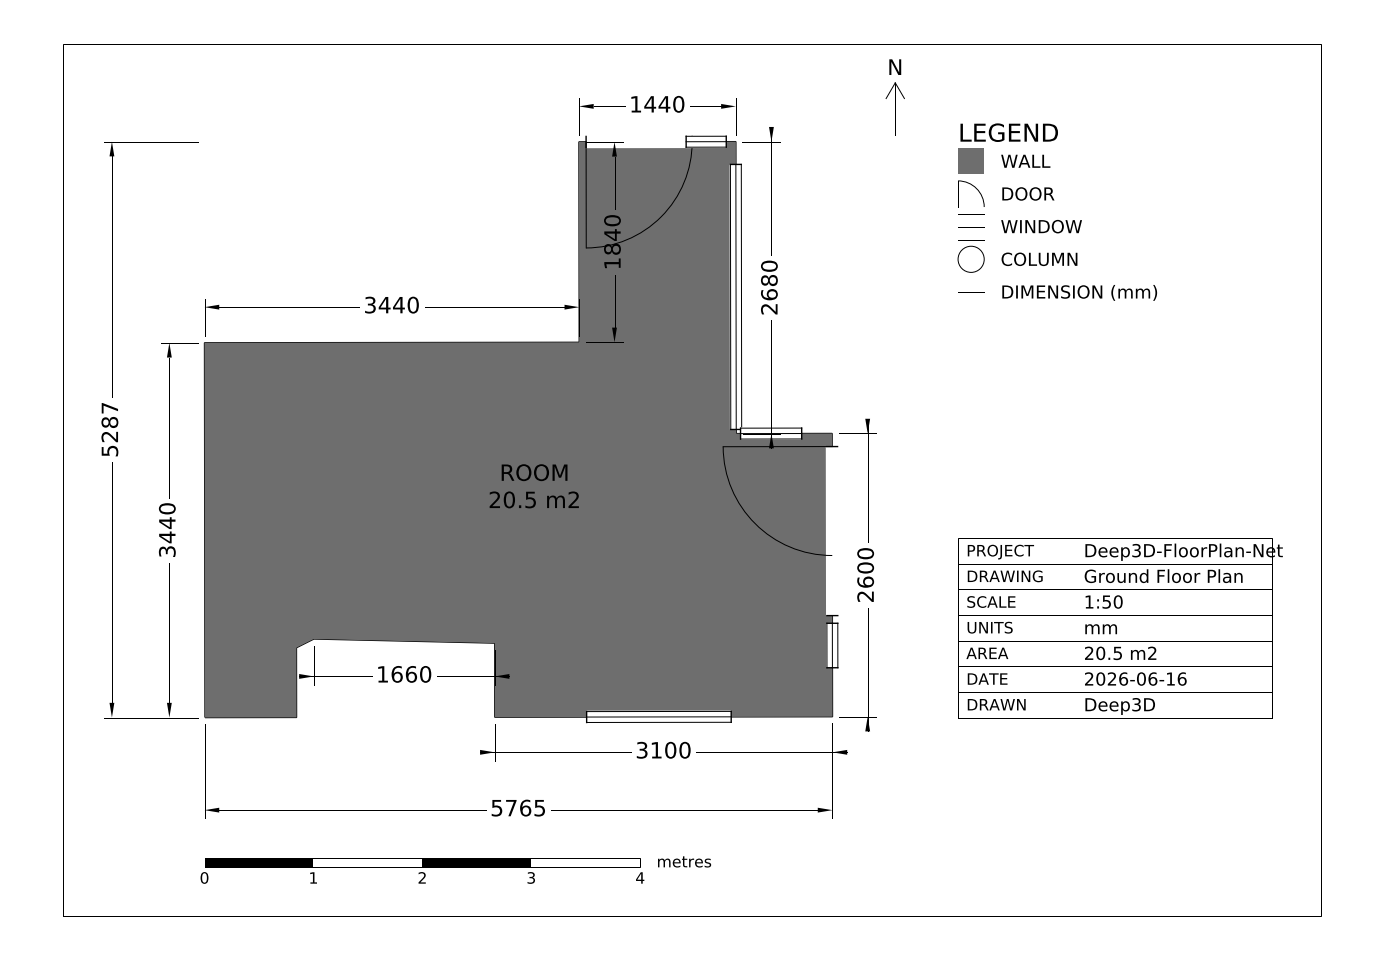
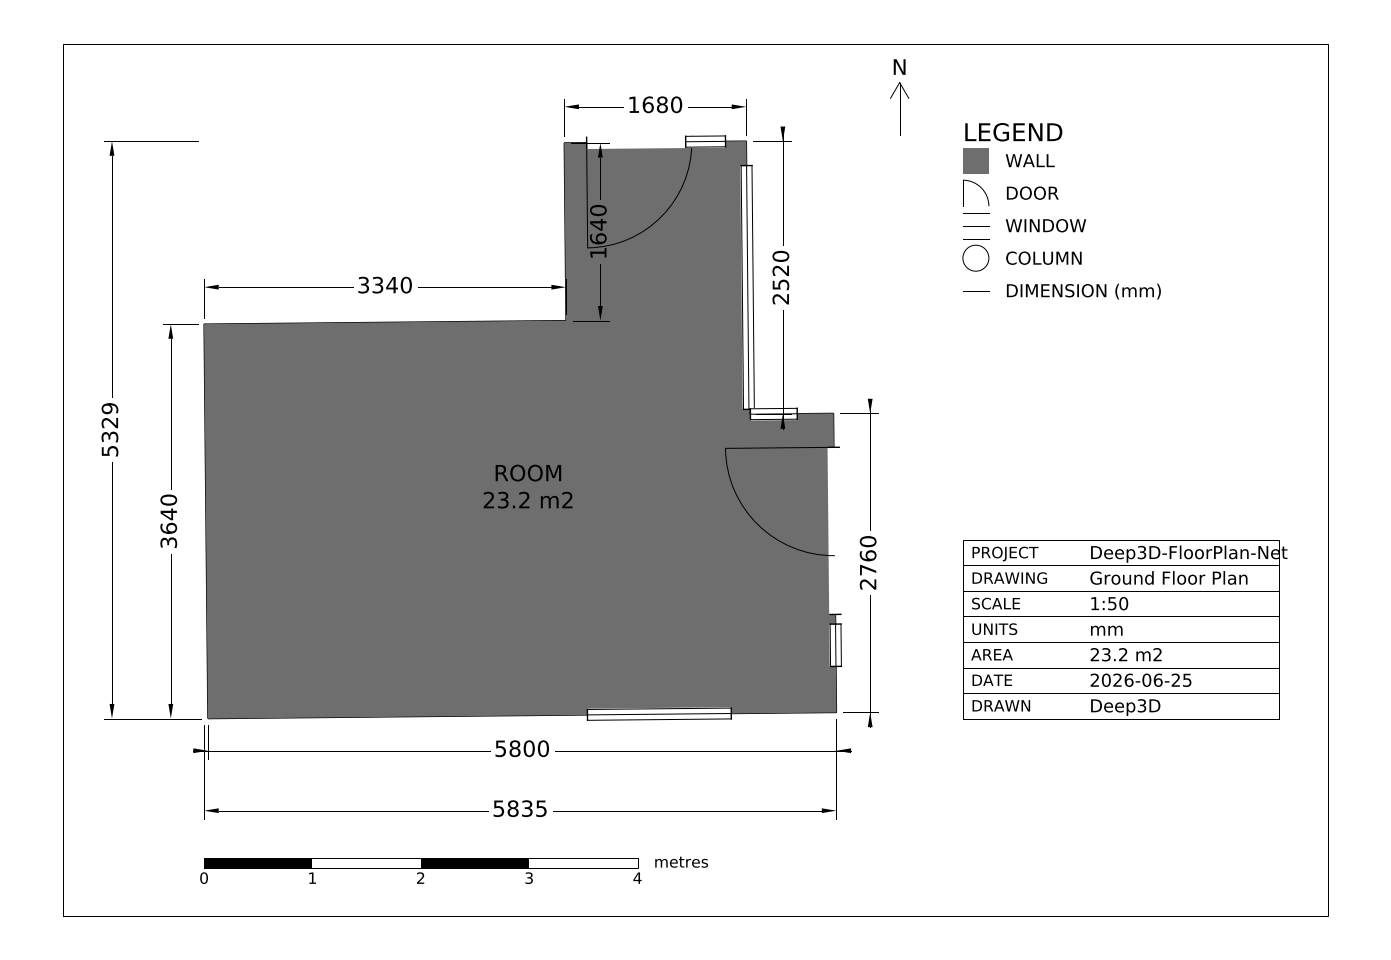
improvised floorplan sota to address holes after furniture removal

diff --git a/scripts/floorplan_sota.py b/scripts/floorplan_sota.py
@@ -85,14 +85,25 @@ def rectilinearize(v):
             out.append(list(v[i]))
     return np.array(out)
 
-def room_from_floor_mask(floor_pts, ang, r):
+def room_from_floor_mask(floor_pts, wall_pts, ang, r):
     if len(floor_pts) == 0:
         return None
     aligned = rot(floor_pts, -ang)
     mn = aligned.min(0)
     g = np.floor((aligned - mn) / r["mask_res"]).astype(int)
-    mask = np.zeros((g[:, 1].max() + 3, g[:, 0].max() + 3), np.uint8)
+    H, W = g[:, 1].max() + 3, g[:, 0].max() + 3
+    mask = np.zeros((H, W), np.uint8)
     mask[g[:, 1] + 1, g[:, 0] + 1] = 255
+    if r["seal_with_walls"] and len(wall_pts):
+        wg = np.floor((rot(wall_pts, -ang) - mn) / r["mask_res"]).astype(int) + 1
+        wg[:, 0] = np.clip(wg[:, 0], 0, W - 1)
+        wg[:, 1] = np.clip(wg[:, 1], 0, H - 1)
+        seal = np.zeros((H, W), np.uint8)
+        seal[wg[:, 1], wg[:, 0]] = 255
+        if r["wall_dilate"] > 0:
+            d = r["wall_dilate"] * 2 + 1
+            seal = cv2.dilate(seal, cv2.getStructuringElement(cv2.MORPH_RECT, (d, d)))
+        mask = cv2.bitwise_or(mask, seal)
     k = cv2.getStructuringElement(cv2.MORPH_RECT, (r["morph_kernel"], r["morph_kernel"]))
     mask = cv2.morphologyEx(mask, cv2.MORPH_CLOSE, k, iterations=r["morph_iters"])
     cnts, _ = cv2.findContours(mask, cv2.RETR_EXTERNAL, cv2.CHAIN_APPROX_SIMPLE)
@@ -223,7 +234,7 @@ def dim_style(doc, th_txt):
         ds.dxf.dimgap = th_txt * 0.3
         ds.dxf.dimdec = 0
 
-def add_dims(msp, ext_mm, cen, off, th_txt):
+def add_dims(msp, ext_mm, cen, off):
     for a, b in zip(ext_mm[:-1], ext_mm[1:]):
         a, b = np.array(a), np.array(b)
         L = np.linalg.norm(b - a)
@@ -238,7 +249,7 @@ def add_dims(msp, ext_mm, cen, off, th_txt):
         msp.add_linear_dim(base=tuple(base), p1=tuple(a), p2=tuple(b), angle=ang,
                            dimstyle="PLAN", dxfattribs={"layer": "A-DIMS"}).render()
 
-def add_overall_dims(msp, bounds_mm, off, th_txt):
+def add_overall_dims(msp, bounds_mm, off):
     x0, y0, x1, y1 = bounds_mm
     msp.add_linear_dim(base=(0, y0 - off), p1=(x0, y0), p2=(x1, y0), angle=0,
                        dimstyle="PLAN", dxfattribs={"layer": "A-DIMS"}).render()
@@ -311,7 +322,7 @@ def add_title_block(msp, x0, y0, w, h, th_txt, area, scale):
         msp.add_text(v, height=th_txt * 0.8, dxfattribs={"layer": "A-TTLB"}).set_placement(
             (x0 + w * 0.4, ry + rh / 2), align=TextEntityAlignment.MIDDLE_LEFT)
 
-def export_drawing(out_base, room, openings, columns, floor_z, ceil_z, cfg):
+def export_drawing(out_base, room, openings, columns, cfg):
     thickness = cfg["wall_thickness"]
     scale = cfg["drawing"]["scale"]
     swing = cfg["drawing"]["door_swing_max"] * S
@@ -340,9 +351,9 @@ def export_drawing(out_base, room, openings, columns, floor_z, ceil_z, cfg):
         msp.add_text(f"C{i + 1}", height=th_txt * 0.7, dxfattribs={"layer": "A-COLS"}).set_placement(
             center, align=TextEntityAlignment.MIDDLE_CENTER)
 
-    add_dims(msp, [tuple(c) for c in ext], cen, th + th_txt * 1.5, th_txt)
+    add_dims(msp, [tuple(c) for c in ext], cen, th + th_txt * 1.5)
     overall_off = th + th_txt * 5.0
-    add_overall_dims(msp, (x0, y0, x1, y1), overall_off, th_txt)
+    add_overall_dims(msp, (x0, y0, x1, y1), overall_off)
 
     msp.add_mtext(f"ROOM\\P{room.area:.1f} m2", dxfattribs={
         "layer": "A-ANNO", "char_height": th_txt, "attachment_point": 5}).set_location(tuple(cen))
@@ -491,7 +502,7 @@ def reconstruct(clouds, cfg):
     fbb = (floor_pts.max(0) - floor_pts.min(0)) if len(floor_pts) else np.zeros(2)
     area = float(fbb[0] * fbb[1])
     method = cfg["method"]
-    room = None if method == "obb" else room_from_floor_mask(floor_pts, ang, cfg["room"])
+    room = None if method == "obb" else room_from_floor_mask(floor_pts, xy(clouds["walls"]), ang, cfg["room"])
     used = "floor_mask"
     bad = room is None or not (cfg["room"]["area_lo"] * area <= room.area <= cfg["room"]["area_hi"] * area)
     if room is None or (bad and method != "floor_mask"):
@@ -504,7 +515,7 @@ def reconstruct(clouds, cfg):
 def generate(clouds, out_dir, cfg):
     os.makedirs(out_dir, exist_ok=True)
     room, openings, columns, floor_z, ceil_z, method = reconstruct(clouds, cfg)
-    export_drawing(os.path.join(out_dir, "floor_plan"), room, openings, columns, floor_z, ceil_z, cfg)
+    export_drawing(os.path.join(out_dir, "floor_plan"), room, openings, columns, cfg)
     export_ifc(os.path.join(out_dir, "model.ifc"), room, openings, columns, floor_z, ceil_z, cfg["wall_thickness"])
     info = {"method": method, "area_m2": round(room.area, 3),
             "bounds": [round(v, 3) for v in room.bounds],

diff --git a/Readme.md b/Readme.md
@@ -206,7 +206,7 @@ All geometry is computed in this frame via the rotation $R(-\theta_0)$ and mappe
 ```math
 u_i = \left\lfloor \frac{x_i - x_{\min}}{r} \right\rfloor, \quad v_i = \left\lfloor \frac{y_i - y_{\min}}{r} \right\rfloor
 ```
-A **morphological closing** fills furniture gaps, and the largest external contour is taken as the raw room boundary.
+A **morphological closing** fills furniture gaps, and the largest external contour is taken as the raw room boundary. Wall points are rasterized into the same mask (`room.seal_with_walls`) to **seal furniture-induced floor holes** — e.g. a removed sofa against a wall, whose occluded floor would otherwise become a boundary notch — turning such holes into enclosed regions that the external contour ignores.
 
 3.  **Rectilinear Regularization (`rectilinearize`):** The contour is simplified (`cv2.approxPolyDP`) and each edge is locked to the nearest axis; a vertex is replaced by the intersection of its two adjacent axis-locked edges, producing clean right angles. An edge $(\mathbf{a},\mathbf{b})$ is treated as horizontal when:
 ```math